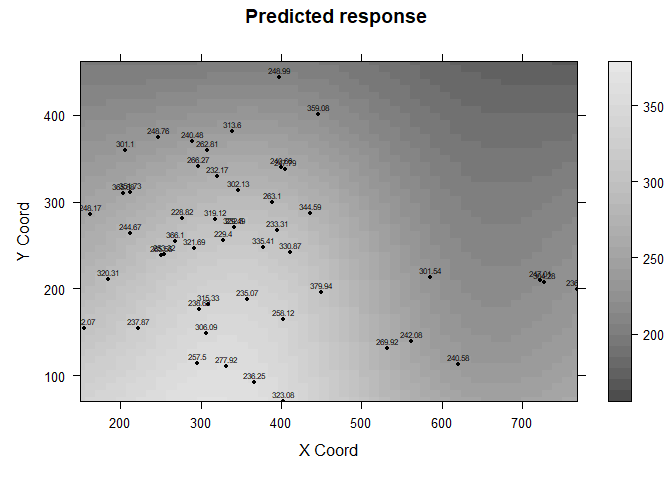
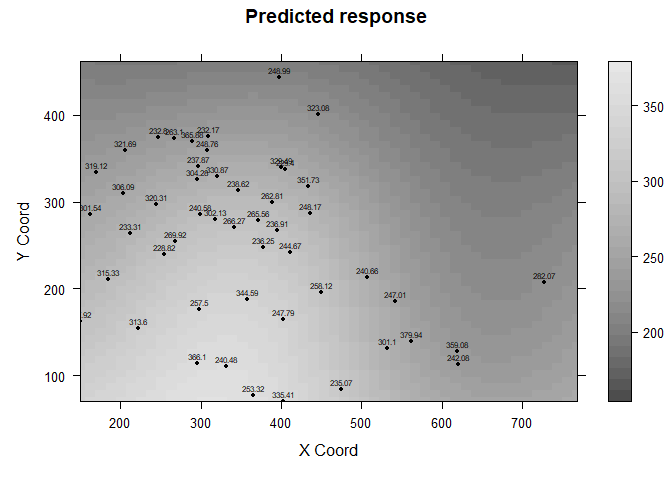
examples!

diff --git a/README.md b/README.md
@@ -81,17 +81,17 @@ convergence items such as initial values must be specified.
 
 ``` r
 library(CensSpatial)
-set.seed(456)
+set.seed(123)
 
 
 ### SAEM sintax
 
 SAEMres = SAEMSCL(cc,y,cens.type="left",trend="1st",coords=coords,
                kappa=2, cov.model="gaussian", fix.nugget=F,nugget=170,
-               inits.sigmae=cov.ini[2],inits.phi=cov.ini[1], search=T,
+               inits.sigmae=68,inits.phi=900, search=T,
                lower=c(0.0001,0.0001),upper=c(50000,5000),
                M=15,perc=0.25,MaxIter=500,pc=0.2)
-#>   |                                                                              |                                                                      |   0%  |                                                                              |                                                                      |   1%  |                                                                              |=                                                                     |   1%  |                                                                              |=                                                                     |   2%  |                                                                              |==                                                                    |   2%  |                                                                              |==                                                                    |   3%  |                                                                              |===                                                                   |   4%  |                                                                              |===                                                                   |   5%  |                                                                              |====                                                                  |   5%  |                                                                              |====                                                                  |   6%  |                                                                              |=====                                                                 |   7%  |                                                                              |=====                                                                 |   8%  |                                                                              |======                                                                |   8%  |                                                                              |======                                                                |   9%  |                                                                              |=======                                                               |   9%  |                                                                              |=======                                                               |  10%  |                                                                              |=======                                                               |  11%  |                                                                              |========                                                              |  11%  |                                                                              |========                                                              |  12%  |                                                                              |=========                                                             |  12%  |                                                                              |=========                                                             |  13%  |                                                                              |==========                                                            |  14%  |                                                                              |==========                                                            |  15%  |                                                                              |===========                                                           |  15%  |                                                                              |===========                                                           |  16%  |                                                                              |============                                                          |  17%  |                                                                              |============                                                          |  18%  |                                                                              |=============                                                         |  18%  |                                                                              |=============                                                         |  19%  |                                                                              |==============                                                        |  19%  |                                                                              |==============                                                        |  20%  |                                                                              |==============                                                        |  21%  |                                                                              |===============                                                       |  21%  |                                                                              |===============                                                       |  22%  |                                                                              |================                                                      |  22%  |                                                                              |================                                                      |  23%  |                                                                              |=================                                                     |  24%  |                                                                              |=================                                                     |  25%  |                                                                              |==================                                                    |  25%  |                                                                              |==================                                                    |  26%  |                                                                              |===================                                                   |  27%  |                                                                              |===================                                                   |  28%  |                                                                              |====================                                                  |  28%  |                                                                              |====================                                                  |  29%  |                                                                              |=====================                                                 |  29%  |                                                                              |=====================                                                 |  30%  |                                                                              |=====================                                                 |  31%  |                                                                              |======================                                                |  31%  |                                                                              |======================                                                |  32%  |                                                                              |=======================                                               |  32%  |                                                                              |=======================                                               |  33%  |                                                                              |========================                                              |  34%  |                                                                              |========================                                              |  35%  |                                                                              |=========================                                             |  35%  |                                                                              |=========================                                             |  36%  |                                                                              |==========================                                            |  37%  |                                                                              |==========================                                            |  38%  |                                                                              |===========================                                           |  38%  |                                                                              |===========================                                           |  39%  |                                                                              |============================                                          |  39%  |                                                                              |============================                                          |  40%  |                                                                              |============================                                          |  41%  |                                                                              |=============================                                         |  41%  |                                                                              |=============================                                         |  42%  |                                                                              |==============================                                        |  42%  |                                                                              |==============================                                        |  43%  |                                                                              |===============================                                       |  44%  |                                                                              |===============================                                       |  45%  |                                                                              |================================                                      |  45%  |                                                                              |================================                                      |  46%  |                                                                              |=================================                                     |  47%  |                                                                              |=================================                                     |  48%  |                                                                              |==================================                                    |  48%  |                                                                              |==================================                                    |  49%  |                                                                              |===================================                                   |  49%  |                                                                              |===================================                                   |  50%  |                                                                              |===================================                                   |  51%  |                                                                              |====================================                                  |  51%  |                                                                              |====================================                                  |  52%  |                                                                              |=====================================                                 |  52%  |                                                                              |=====================================                                 |  53%  |                                                                              |======================================                                |  54%  |                                                                              |======================================                                |  55%  |                                                                              |=======================================                               |  55%  |                                                                              |=======================================                               |  56%  |                                                                              |========================================                              |  57%  |                                                                              |========================================                              |  58%  |                                                                              |=========================================                             |  58%  |                                                                              |=========================================                             |  59%  |                                                                              |==========================================                            |  59%  |                                                                              |==========================================                            |  60%  |                                                                              |==========================================                            |  61%  |                                                                              |===========================================                           |  61%  |                                                                              |===========================================                           |  62%  |                                                                              |============================================                          |  62%  |                                                                              |============================================                          |  63%  |                                                                              |=============================================                         |  64%  |                                                                              |=============================================                         |  65%  |                                                                              |==============================================                        |  65%  |                                                                              |==============================================                        |  66%  |                                                                              |===============================================                       |  67%  |                                                                              |===============================================                       |  68%  |                                                                              |================================================                      |  68%  |                                                                              |================================================                      |  69%  |                                                                              |=================================================                     |  69%  |                                                                              |=================================================                     |  70%  |                                                                              |=================================================                     |  71%  |                                                                              |==================================================                    |  71%  |                                                                              |==================================================                    |  72%  |                                                                              |===================================================                   |  72%  |                                                                              |===================================================                   |  73%  |                                                                              |====================================================                  |  74%  |                                                                              |====================================================                  |  75%  |                                                                              |=====================================================                 |  75%  |                                                                              |=====================================================                 |  76%  |                                                                              |======================================================                |  77%  |                                                                              |======================================================                |  78%  |                                                                              |=======================================================               |  78%  |                                                                              |=======================================================               |  79%  |                                                                              |========================================================              |  79%  |                                                                              |========================================================              |  80%  |                                                                              |========================================================              |  81%  |                                                                              |=========================================================             |  81%  |                                                                              |=========================================================             |  82%  |                                                                              |==========================================================            |  82%  |                                                                              |==========================================================            |  83%  |                                                                              |===========================================================           |  84%  |                                                                              |===========================================================           |  85%  |                                                                              |============================================================          |  85%  |                                                                              |============================================================          |  86%  |                                                                              |=============================================================         |  87%  |                                                                              |=============================================================         |  88%  |                                                                              |==============================================================        |  88%  |                                                                              |==============================================================        |  89%  |                                                                              |===============================================================       |  89%  |                                                                              |===============================================================       |  90%  |                                                                              |===============================================================       |  91%  |                                                                              |================================================================      |  91%  |                                                                              |================================================================      |  92%  |                                                                              |=================================================================     |  92%  |                                                                              |=================================================================     |  93%  |                                                                              |==================================================================    |  94%  |                                                                              |==================================================================    |  95%  |                                                                              |===================================================================   |  95%  |                                                                              |===================================================================   |  96%  |                                                                              |====================================================================  |  97%  |                                                                              |====================================================================  |  98%  |                                                                              |===================================================================== |  98%  |                                                                              |===================================================================== |  99%  |                                                                              |======================================================================|  99%  |                                                                              |======================================================================| 100%
+#>   |                                                                              |                                                                      |   0%  |                                                                              |                                                                      |   1%  |                                                                              |=                                                                     |   1%  |                                                                              |=                                                                     |   2%  |                                                                              |==                                                                    |   2%  |                                                                              |==                                                                    |   3%  |                                                                              |===                                                                   |   4%  |                                                                              |===                                                                   |   5%  |                                                                              |====                                                                  |   5%  |                                                                              |====                                                                  |   6%  |                                                                              |=====                                                                 |   7%  |                                                                              |=====                                                                 |   8%  |                                                                              |======                                                                |   8%  |                                                                              |======                                                                |   9%  |                                                                              |=======                                                               |   9%  |                                                                              |=======                                                               |  10%  |                                                                              |=======                                                               |  11%  |                                                                              |========                                                              |  11%  |                                                                              |========                                                              |  12%  |                                                                              |=========                                                             |  12%  |                                                                              |=========                                                             |  13%  |                                                                              |==========                                                            |  14%  |                                                                              |==========                                                            |  15%  |                                                                              |===========                                                           |  15%  |                                                                              |===========                                                           |  16%  |                                                                              |============                                                          |  17%  |                                                                              |============                                                          |  18%  |                                                                              |=============                                                         |  18%  |                                                                              |=============                                                         |  19%  |                                                                              |==============                                                        |  19%  |                                                                              |==============                                                        |  20%  |                                                                              |==============                                                        |  21%  |                                                                              |===============                                                       |  21%  |                                                                              |===============                                                       |  22%  |                                                                              |================                                                      |  22%  |                                                                              |================                                                      |  23%  |                                                                              |=================                                                     |  24%  |                                                                              |=================                                                     |  25%  |                                                                              |==================                                                    |  25%  |                                                                              |==================                                                    |  26%  |                                                                              |===================                                                   |  27%  |                                                                              |===================                                                   |  28%  |                                                                              |====================                                                  |  28%  |                                                                              |====================                                                  |  29%  |                                                                              |=====================                                                 |  29%  |                                                                              |=====================                                                 |  30%  |                                                                              |=====================                                                 |  31%  |                                                                              |======================                                                |  31%  |                                                                              |======================                                                |  32%  |                                                                              |=======================                                               |  32%  |                                                                              |=======================                                               |  33%  |                                                                              |========================                                              |  34%  |                                                                              |========================                                              |  35%  |                                                                              |=========================                                             |  35%  |                                                                              |=========================                                             |  36%  |                                                                              |==========================                                            |  37%  |                                                                              |==========================                                            |  38%  |                                                                              |===========================                                           |  38%  |                                                                              |===========================                                           |  39%  |                                                                              |============================                                          |  39%  |                                                                              |============================                                          |  40%  |                                                                              |============================                                          |  41%  |                                                                              |=============================                                         |  41%  |                                                                              |=============================                                         |  42%  |                                                                              |==============================                                        |  42%  |                                                                              |==============================                                        |  43%  |                                                                              |===============================                                       |  44%  |                                                                              |===============================                                       |  45%  |                                                                              |================================                                      |  45%  |                                                                              |================================                                      |  46%  |                                                                              |=================================                                     |  47%  |                                                                              |=================================                                     |  48%  |                                                                              |==================================                                    |  48%  |                                                                              |==================================                                    |  49%  |                                                                              |===================================                                   |  49%  |                                                                              |===================================                                   |  50%  |                                                                              |===================================                                   |  51%  |                                                                              |====================================                                  |  51%  |                                                                              |====================================                                  |  52%  |                                                                              |=====================================                                 |  52%  |                                                                              |=====================================                                 |  53%  |                                                                              |======================================                                |  54%  |                                                                              |======================================                                |  55%  |                                                                              |=======================================                               |  55%  |                                                                              |=======================================                               |  56%  |                                                                              |========================================                              |  57%  |                                                                              |========================================                              |  58%  |                                                                              |=========================================                             |  58%  |                                                                              |=========================================                             |  59%  |                                                                              |==========================================                            |  59%  |                                                                              |==========================================                            |  60%  |                                                                              |==========================================                            |  61%  |                                                                              |===========================================                           |  61%  |                                                                              |===========================================                           |  62%  |                                                                              |============================================                          |  62%  |                                                                              |============================================                          |  63%  |                                                                              |=============================================                         |  64%  |                                                                              |=============================================                         |  65%  |                                                                              |==============================================                        |  65%  |                                                                              |==============================================                        |  66%  |                                                                              |===============================================                       |  67%  |                                                                              |===============================================                       |  68%  |                                                                              |================================================                      |  68%  |                                                                              |================================================                      |  69%  |                                                                              |=================================================                     |  69%  |                                                                              |=================================================                     |  70%  |                                                                              |=================================================                     |  71%  |                                                                              |======================================================================| 100%
 
 
 ### Seminaive sintax
@@ -99,7 +99,7 @@ seminaiveres = Seminaive(data=dataobs,y.col=3,coords.col=1:2,
                          covar=F,cc=as.matrix(cc),trend="1st",
                          cov.model="gaussian",fix.nugget=F,
                          nugget=170,kappa=2,
-                         thetaini=c(cov.ini[2],cov.ini[1]),
+                         thetaini=c(700,200),
                          cons=c(0.1,2,0.5),MaxIter=500,
                          copred=coordspred, cutoff = lod)
 
@@ -108,7 +108,7 @@ seminaiveres = Seminaive(data=dataobs,y.col=3,coords.col=1:2,
 naive12res = algnaive12(data=dataobs,y.col=3,coords.col=1:2,covar=F,
                         cc=as.matrix(cc),trend="1st",
                         cov.model="gaussian",fix.nugget=F,nugget=170,kappa=2,
-                        thetaini=c(cov.ini[2],cov.ini[1]),copred=coordspred,
+                        thetaini=c(700,200),copred=coordspred,
                         cutoff=lod)
 ```
 
@@ -142,27 +142,27 @@ summary(SAEMres)
 #> ---------
 #> 
 #>        Estimated
-#> beta 0  361.9608
-#> beta 1   -0.0696
-#> beta 2   -0.3028
-#> sigma2  951.6294
-#> phi     220.0061
-#> tau2    362.5436
+#> beta 0  362.7686
+#> beta 1   -0.0705
+#> beta 2   -0.3055
+#> sigma2  939.9342
+#> phi     219.6152
+#> tau2    362.5092
 #> 
 #> ------------------------
 #> Model selection criteria
 #> ------------------------
 #> 
-#>         Loglik    AIC     BIC AICcorr
-#> Value -349.605 711.21 726.841 712.113
+#>         Loglik     AIC     BIC AICcorr
+#> Value -349.592 711.183 726.814 712.087
 #> 
 #> -------
 #> Details
 #> -------
 #> 
 #> Type of censoring = left
-#> Convergence reached? = FALSE
-#> Iterations = 500 / 500
+#> Convergence reached? = TRUE
+#> Iterations = 354 / 500
 #> MC sample = 15
 #> Cut point = 0.2
 ```
@@ -197,12 +197,12 @@ tableres
 #> Seminaive   401.135 -0.132 -0.368  621.682 181.567 807.717 -486.511  985.023
 #> Naive_1     354.131 -0.066 -0.232  855.948  82.310 244.582 -438.130  888.260
 #> Naive_2     461.964 -0.236 -0.508 2129.897  29.896 453.202 -498.746 1009.491
-#> SAEM (best) 361.961 -0.070 -0.303  951.629 220.006 362.544 -349.605  711.210
+#> SAEM (best) 362.769 -0.071 -0.306  939.934 219.615 362.509 -349.592  711.183
 #>                  BIC
 #> Seminaive   1000.654
 #> Naive_1      903.891
 #> Naive_2     1025.122
-#> SAEM (best)  726.841
+#> SAEM (best)  726.814
 ```
 
 <div style="text-align: justify">
@@ -255,17 +255,17 @@ dp = localinfmeas(est = SAEMres,fix.nugget= FALSE,diag.plot=TRUE,type.plot="all"
 ### explanatory variables perturbation ##
 dp$expvper
 #>             at3        m03
-#> 9  atypical obs 0.05446722
-#> 77 atypical obs 0.05535268
-#> 92 atypical obs 0.05542131
+#> 9  atypical obs 0.05428965
+#> 77 atypical obs 0.05550907
+#> 92 atypical obs 0.05544896
 
 ### scale matrix perturbation##
 dp$smper
 #>             at2        m02
-#> 20 atypical obs 0.05619639
-#> 21 atypical obs 0.05804641
-#> 77 atypical obs 0.05995495
-#> 92 atypical obs 0.07316887
+#> 20 atypical obs 0.05626475
+#> 21 atypical obs 0.05820120
+#> 77 atypical obs 0.06002574
+#> 92 atypical obs 0.07318137
 ```
 
 ## References
